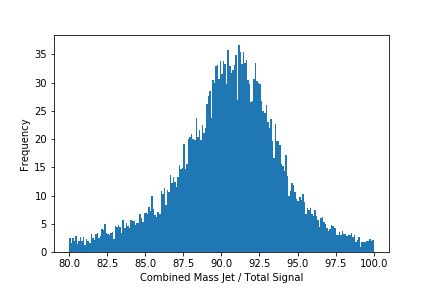
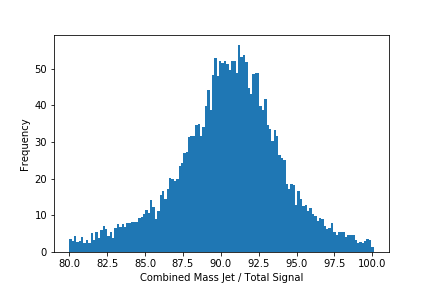
Individual signal plots completed

diff --git a/histogram.py b/histogram.py
@@ -3,6 +3,7 @@ import pandas as pd
 import os as os
 import matplotlib.pyplot as pyplot
 import math as math
+import scipy.stats as sp
 
 os.chdir('Data')
 myarr = np.load('project data.npy')
@@ -50,66 +51,112 @@ invariantmassesdf = pd.DataFrame(data=invariantmasses, columns=['label','jet','l
 signal = df[df.label >= 300000]
 background = df[df.label <= 300000]
 
+def histweighteddrac(data,weight):
+    #ad hoc modification of the freedman diaconic formula for the weighted data to decide bin sizes
+    constant = 1
+    binsize = constant*2*sp.stats.iqr(data)/pow(len(data),1/3)
+    binn = np.arange(min(data),max(data)+binsize,binsize)
+    pyplot.hist(data,bins=binn, weights = weight, stacked = True, )
+def histweighteddracnostack(data,weight):
+    #ad hoc modification of the freedman diaconic formula for the weighted data to decide bin sizes
+    constant = 1
+    binsize = constant*2*sp.stats.iqr(data)/pow(len(data),1/3)
+    binn = np.arange(min(data),max(data)+binsize,binsize)
+    pyplot.hist(data,bins=binn, weights = weight, stacked = False, )
+
 pyplot.figure(0)
-pyplot.hist(signal.allcombinedinvariantmass, bins=200, weights = signal.weight)
+histweighteddrac(signal.allcombinedinvariantmass, signal.weight)
 pyplot.ylabel('Frequency')
 pyplot.xlabel('Combined Mass All / Total Signal')
 pyplot.savefig('testallsignal.png')
 pyplot.figure(1)
-pyplot.hist(signal.lepcombinedinvariantmass, bins=200, weights = signal.weight)
+histweighteddrac(signal.lepcombinedinvariantmass,signal.weight)
 pyplot.ylabel('Frequency')
 pyplot.xlabel('Combined Mass Jet / Total Signal')
 pyplot.savefig('testJetsignal.png')
 pyplot.figure(2)
-pyplot.hist(signal.jetcombinedinvariantmass, bins=200, weights = signal.weight)
+histweighteddrac(signal.jetcombinedinvariantmass,signal.weight)
 pyplot.ylabel('Frequency')
 pyplot.xlabel('Combined Mass Lep / Total Signal')
 pyplot.savefig('testLepsignal.png')
 
 pyplot.figure(0)
-pyplot.hist(background.allcombinedinvariantmass, bins=200, weights = background.weight)
+histweighteddrac(background.allcombinedinvariantmass,background.weight)
 pyplot.ylabel('Frequency')
-pyplot.xlabel('Combined Mass All / Background')
+pyplot.xlabel('Combined Mass All / SigandBack')
 pyplot.savefig('testallsigandback.png')
+pyplot.legend(('signal','background'))
 pyplot.figure(1)
-pyplot.hist(background.lepcombinedinvariantmass, bins=200, weights = background.weight)
+histweighteddrac(background.lepcombinedinvariantmass,background.weight)
 pyplot.ylabel('Frequency')
-pyplot.xlabel('Combined Mass Lep /Background')
+pyplot.xlabel('Combined Mass Lep /SigandBack')
 pyplot.savefig('testJetsigandback.png')
+pyplot.legend(('signal','background'))
 pyplot.figure(2)
-pyplot.hist(background.jetcombinedinvariantmass, bins=200, weights = background.weight)
+histweighteddrac(background.jetcombinedinvariantmass,background.weight)
 pyplot.ylabel('Frequency')
-pyplot.xlabel('Combined Mass jet / Background')
+pyplot.xlabel('Combined Mass jet / SigandBack')
+pyplot.legend(('signal','background'))
 pyplot.savefig('testLepsigandback.png')
 
 pyplot.figure(3)
-pyplot.hist(background.allcombinedinvariantmass, bins=200, weights = background.weight)
+histweighteddrac(background.allcombinedinvariantmass,background.weight)
 pyplot.ylabel('Frequency')
 pyplot.xlabel('Combined Mass All / Signal and Background Superimposed')
 pyplot.savefig('testallback.png')
 pyplot.figure(4)
-pyplot.hist(background.lepcombinedinvariantmass, bins=200, weights = background.weight)
+histweighteddrac(background.lepcombinedinvariantmass,background.weight)
 pyplot.ylabel('Frequency')
 pyplot.xlabel('Combined Mass lep / Signal and Background Superimposed')
 pyplot.savefig('testJetback.png')
 pyplot.figure(5)
-pyplot.hist(background.jetcombinedinvariantmass, bins=200, weights = background.weight)
+histweighteddrac(background.jetcombinedinvariantmass,background.weight)
 pyplot.ylabel('Frequency')
 pyplot.xlabel('Combined Mass jet / Signal and Background Superimposed')
 pyplot.savefig('testLepback.png')
 
 pyplot.figure(6)
-pyplot.hist(df.allcombinedinvariantmass, bins=200, weights = df.weight)
+histweighteddrac(df.allcombinedinvariantmass,df.weight)
 pyplot.ylabel('Frequency')
 pyplot.xlabel('Combined Mass All / All events')
 pyplot.savefig('testallfull.png')
 pyplot.figure(7)
-pyplot.hist(df.lepcombinedinvariantmass, bins=200, weights = df.weight)
+histweighteddrac(df.lepcombinedinvariantmass,df.weight)
 pyplot.ylabel('Frequency')
 pyplot.xlabel('Combined Mass lep / All events')
 pyplot.savefig('testJetfull.png')
 pyplot.figure(8)
-pyplot.hist(df.jetcombinedinvariantmass, bins=200, weights = df.weight)
+histweighteddrac(df.jetcombinedinvariantmass,df.weight)
 pyplot.ylabel('Frequency')
 pyplot.xlabel('Combined Mass jet / All events')
 pyplot.savefig('testLepfull.png')
+
+for x,y in zip(signal.label.unique(),range(len(signal.label.unique())-1)):
+    signalplot = df[df.label == x]
+    pyplot.figure(9+4*y)
+    histweighteddrac(signalplot.allcombinedinvariantmass,signalplot.weight)
+    pyplot.ylabel('Frequency')
+    pyplot.xlabel('Combined Mass All / %s' % x)
+    pyplot.savefig('%stestallfull.png' % x)
+    pyplot.figure(10+4*y)
+    histweighteddrac(signalplot.lepcombinedinvariantmass,signalplot.weight)
+    pyplot.ylabel('Frequency')
+    pyplot.xlabel('Combined Mass lep / %s' % x)
+    pyplot.savefig('%stestlepfull.png' % x)
+    pyplot.figure(11+4*y)
+    histweighteddrac(signalplot.jetcombinedinvariantmass,signalplot.weight)
+    pyplot.ylabel('Frequency')
+    pyplot.xlabel('Combined Mass jet / %s' % x)
+    pyplot.savefig('%stestjetfull.png' % x)
+    pyplot.figure(12+4*y)
+    histweighteddracnostack(signalplot.jetcombinedinvariantmass,signalplot.weight)
+    histweighteddracnostack(signalplot.lepcombinedinvariantmass,signalplot.weight)
+    histweighteddracnostack(signalplot.allcombinedinvariantmass,signalplot.weight)
+    pyplot.ylabel('Frequency')
+    pyplot.xlabel('Combined Mass jet / %s' % x)
+    pyplot.savefig('%scombined.png' % x)
+    pyplot.legend(('jet','lep','combined'))
+    
+    
+#From these plots the peaks on the jets and the combined peaks are quite clear and there's only one so some method of automatically obtaining peaks from the base data will be employed
+    

diff --git a/histogrambackup.py b/histogrambackup.py
@@ -1,0 +1,139 @@
+import numpy as np
+import pandas as pd
+import os as os
+import matplotlib.pyplot as pyplot
+import math as math
+import scipy as sp
+
+os.chdir('Data')
+myarr = np.load('project data.npy')
+#df is the data in momentum eta phi form
+df = pd.DataFrame(data=myarr, columns=["label","weight","lep0pt","lep0eta","lep0phi",
+										   "lep1pt","lep1eta","lep1phi",
+										   "jet0pt","jet0eta","jet0phi",
+										   "jet1pt","jet1eta","jet1phi",
+										   "jet2pt","jet2eta","jet2phi",
+										   "MET","METSig","NBJet","NEvent"])
+columns = df.columns.values
+#adding the x y z momentum data
+for i in [0,1,2,3,4]:
+	p = df.iloc[:,2+3*i]*np.cosh(df.iloc[:,3+3*i])
+	px = df.iloc[:,2+3*i]*np.cos(df.iloc[:,4+3*i])
+	py = df.iloc[:,2+3*i]*np.sin(df.iloc[:,4+3*i])
+	pz = df.iloc[:,2+3*i]*np.sinh(df.iloc[:,3+3*i])
+	particlename = columns[2+3*i][:4]
+	df[('%sp' % (particlename))] = p
+	df[('%spx' % (particlename))] = px
+	df['%spy' % (particlename)] = py
+	df['%spz' % (particlename)] = pz    
+ #Linear momentum data has been added to the dataframe
+ 
+suffix4vc = ['p','px','py','pz']
+	 
+#Arrays to allow me to reference properties of particles more systematically
+	 
+for x in suffix4vc:
+    df[('lepcombined%s') % (x)] = df[('lep0%s') % (x)] + df[('lep1%s') % (x)]
+    df[('jetcombined%s') % (x)] = df[('jet0%s') % (x)] + df[('jet1%s') % (x)]
+    df[('allcombined%s' % (x))] = df[('lep0%s') % (x)] + df[('lep1%s') % (x)] + df[('jet0%s') % (x)] + df[('jet1%s') % (x)]
+    
+#Assume E is equal to p
+def invMass(df,system,p,px,py,pz):
+    return (df['%s%s' % (system,p)]*df['%s%s' % (system,p)] - df['%s%s' % (system,px)]*df['%s%s' % (system,px)] - df['%s%s' % (system,py)]*df['%s%s' % (system,py)] - df['%s%s' % (system,pz)]*df['%s%s' % (system,pz)]).apply(math.sqrt)
+
+df['lepcombinedinvariantmass'] = invMass(df,'lepcombined','p','px','py','pz')
+df['jetcombinedinvariantmass'] = invMass(df,'jetcombined','p','px','py','pz')
+df['allcombinedinvariantmass'] = invMass(df,'allcombined','p','px','py','pz')
+
+invariantmasses = [df.label, df.jetcombinedinvariantmass, df.lepcombinedinvariantmass, df.allcombinedinvariantmass]
+invariantmassesdf = pd.DataFrame(data=invariantmasses, columns=['label','jet','lep','combined'])
+
+signal = df[df.label >= 300000]
+background = df[df.label <= 300000]
+
+def histweighteddrac(data,weight):
+    binsize = 2*sp.stats.iqr(data)/pow(len(data),1/3)
+    binn = np.arange(min(data),max(data)+binsize,binsize)
+    pyplot.hist(data,bins=binn, weights = weight )
+
+pyplot.figure(0)
+pyplot.hist(signal.allcombinedinvariantmass, bins=np.arange(min(signal.allcombinedinvariantmass),max(signal.allcombinedinvariantmass)+(1+np.log2(len(signal.allcombinedinvariantmass))),(1+np.log2(len(signal.allcombinedinvariantmass)))), weights = signal.weight)
+pyplot.ylabel('Frequency')
+pyplot.xlabel('Combined Mass All / Total Signal')
+pyplot.savefig('testallsignal.png')
+pyplot.figure(1)
+pyplot.hist(signal.lepcombinedinvariantmass, bins=200, weights = signal.weight)
+pyplot.ylabel('Frequency')
+pyplot.xlabel('Combined Mass Jet / Total Signal')
+pyplot.savefig('testJetsignal.png')
+pyplot.figure(2)
+pyplot.hist(signal.jetcombinedinvariantmass, bins=200, weights = signal.weight)
+pyplot.ylabel('Frequency')
+pyplot.xlabel('Combined Mass Lep / Total Signal')
+pyplot.savefig('testLepsignal.png')
+
+pyplot.figure(0)
+pyplot.hist(background.allcombinedinvariantmass, bins=200, weights = background.weight)
+pyplot.ylabel('Frequency')
+pyplot.xlabel('Combined Mass All / Background')
+pyplot.savefig('testallsigandback.png')
+pyplot.figure(1)
+pyplot.hist(background.lepcombinedinvariantmass, bins=200, weights = background.weight)
+pyplot.ylabel('Frequency')
+pyplot.xlabel('Combined Mass Lep /Background')
+pyplot.savefig('testJetsigandback.png')
+pyplot.figure(2)
+pyplot.hist(background.jetcombinedinvariantmass, bins=200, weights = background.weight)
+pyplot.ylabel('Frequency')
+pyplot.xlabel('Combined Mass jet / Background')
+pyplot.savefig('testLepsigandback.png')
+
+pyplot.figure(3)
+pyplot.hist(background.allcombinedinvariantmass, bins=200, weights = background.weight)
+pyplot.ylabel('Frequency')
+pyplot.xlabel('Combined Mass All / Signal and Background Superimposed')
+pyplot.savefig('testallback.png')
+pyplot.figure(4)
+pyplot.hist(background.lepcombinedinvariantmass, bins=200, weights = background.weight)
+pyplot.ylabel('Frequency')
+pyplot.xlabel('Combined Mass lep / Signal and Background Superimposed')
+pyplot.savefig('testJetback.png')
+pyplot.figure(5)
+pyplot.hist(background.jetcombinedinvariantmass, bins=200, weights = background.weight)
+pyplot.ylabel('Frequency')
+pyplot.xlabel('Combined Mass jet / Signal and Background Superimposed')
+pyplot.savefig('testLepback.png')
+
+pyplot.figure(6)
+pyplot.hist(df.allcombinedinvariantmass, bins=200, weights = df.weight)
+pyplot.ylabel('Frequency')
+pyplot.xlabel('Combined Mass All / All events')
+pyplot.savefig('testallfull.png')
+pyplot.figure(7)
+pyplot.hist(df.lepcombinedinvariantmass, bins=200, weights = df.weight)
+pyplot.ylabel('Frequency')
+pyplot.xlabel('Combined Mass lep / All events')
+pyplot.savefig('testJetfull.png')
+pyplot.figure(8)
+pyplot.hist(df.jetcombinedinvariantmass, bins=200, weights = df.weight)
+pyplot.ylabel('Frequency')
+pyplot.xlabel('Combined Mass jet / All events')
+pyplot.savefig('testLepfull.png')
+
+for x,y in zip(signal.label.unique(),range(len(signal.label.unique())-1)):
+    signalplot = df[df.label == x]
+    pyplot.figure(9+3*y)
+    pyplot.hist(signalplot.allcombinedinvariantmass, bins=200, weights = signalplot.weight)
+    pyplot.ylabel('Frequency')
+    pyplot.xlabel('Combined Mass All / %s' % x)
+    pyplot.savefig('testallfull%s.png' % x)
+    pyplot.figure(10+3*y)
+    pyplot.hist(signalplot.lepcombinedinvariantmass, bins=200, weights = signalplot.weight)
+    pyplot.ylabel('Frequency')
+    pyplot.xlabel('Combined Mass lep / %s' % x)
+    pyplot.savefig('testJetfull%s.png' % x)
+    pyplot.figure(11+3*y)
+    pyplot.hist(signalplot.jetcombinedinvariantmass, bins=200, weights = signalplot.weight)
+    pyplot.ylabel('Frequency')
+    pyplot.xlabel('Combined Mass jet / %s' % x)
+    pyplot.savefig('testLepfull%s.png' % x)

diff --git a/plotinvariantmass function.py b/plotinvariantmass function.py
@@ -1,0 +1,9 @@
+# -*- coding: utf-8 -*-
+"""
+Created on Thu Oct 25 16:27:39 2018
+
+@author: g
+"""
+
+def invMassPlot(df.invmass,df.weight):
+    a
